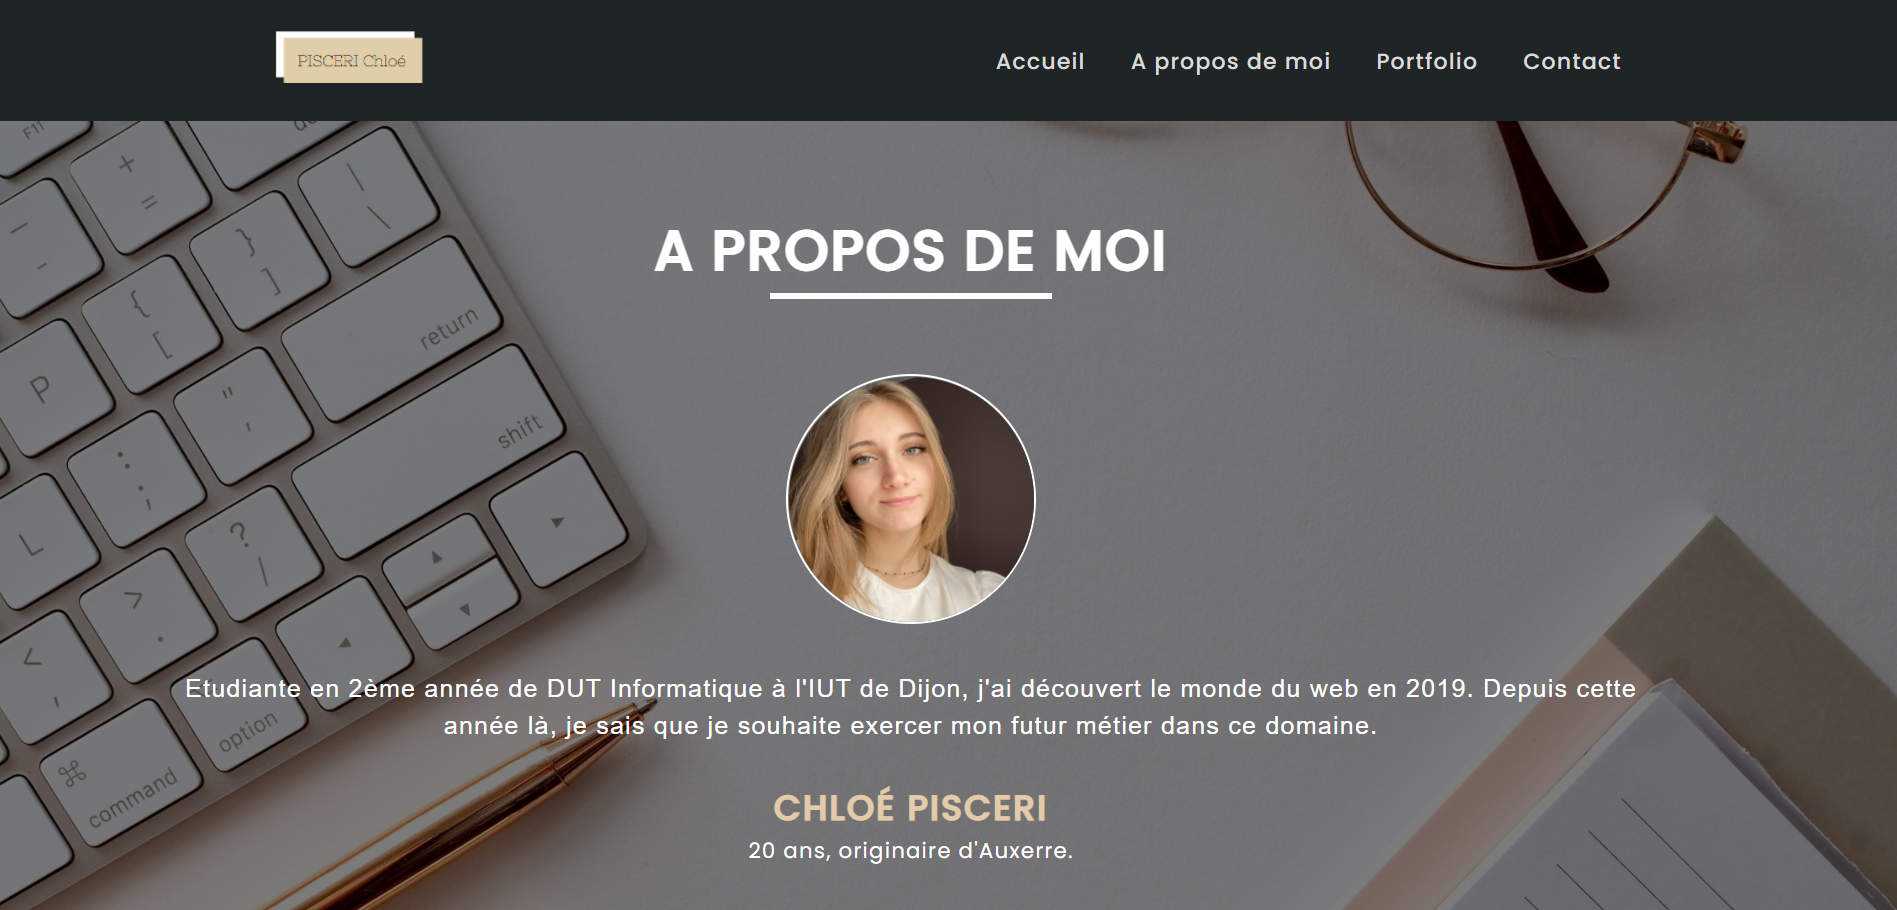
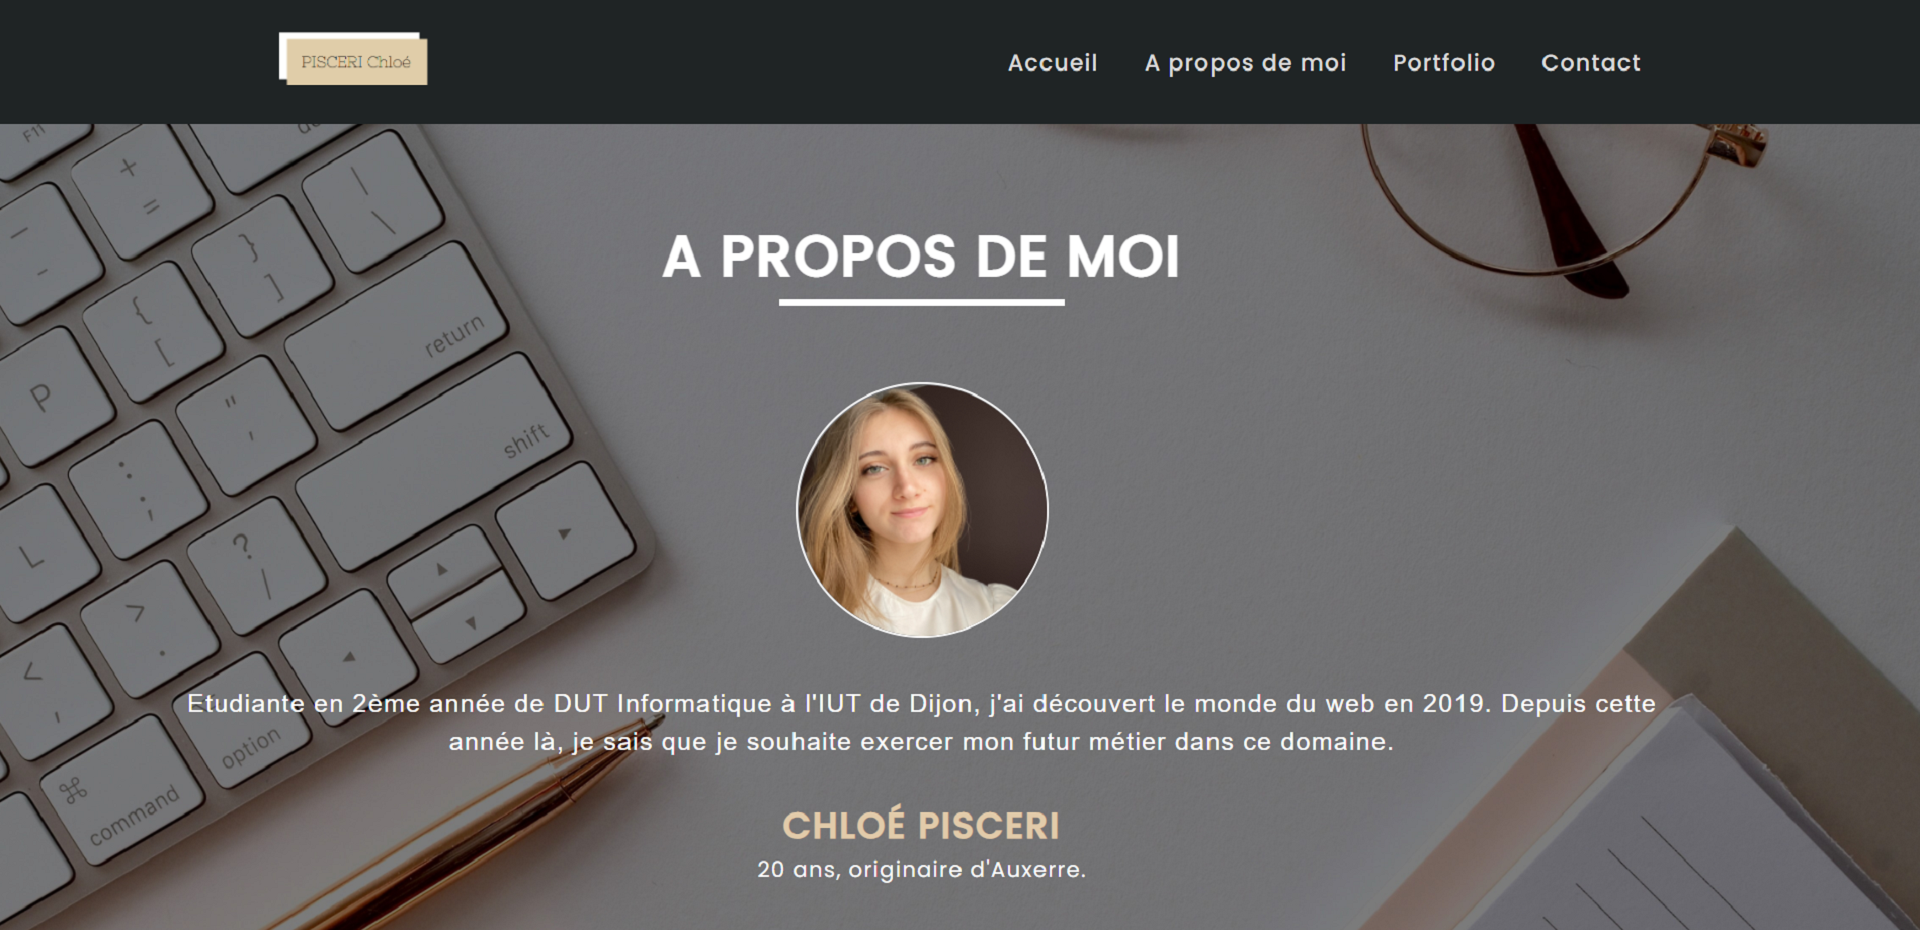
Modifications

diff --git a/css/portfolio.css b/css/portfolio.css
@@ -33,7 +33,7 @@ body{
     grid-template-columns: 1fr 1fr ;
     grid-column-gap: 50px;
     grid-row-gap: 50px;
-    padding: 10em;
+    padding: 8em;
 }
 
 .item{
@@ -73,9 +73,15 @@ h2{
 }
 
 /**LOGO**/
-
+.fa-html5, .fa-css3-alt, .fa-js-square, .fa-php{
+    margin-right: 3%;
+    background-color: rgba(243, 241, 241, 0.884);
+    border-radius: 20%;
+    padding: 2%;
+}
 .fa-html5{
     color :rgba(226,65,24,255);
+    
 }
 
 .fa-css3-alt {
@@ -128,21 +134,23 @@ img.active {
 }
 
 .btn-nav {
-    font-size: 50px;
-    margin: 0 15px;
+    font-size: 30px;
+    margin: 0 10px;
     cursor: pointer;
+    color : whitesmoke;
 }
 
 
 /**responsive**/
 @media screen and (max-width: 950px){
     .items{
-        position: relative;
+        position:relative;
         display: grid;
         grid-template-columns: 1fr ;
         grid-row-gap: 50px;
-        padding: 1em;
-        
+        /* aligner items au centre */
+        align-content: center;
+        justify-content: center;
     }
     .item{
         margin: 30px 0px;

diff --git a/css/apropos.css b/css/apropos.css
@@ -14,10 +14,9 @@
 .wrapper{
     min-height: 100vh;
     width: 95%;
-  
 }
 
-.testimonial{
+.informations{
     padding: 30px 120px;
 }
 
@@ -43,7 +42,8 @@ article img{
     width: 200px;
     border: 2px solid #fff;
     border-radius: 50%;
-    margin-top: 60px;
+    display: block;
+    margin: 60px auto;
 }
 
 blockquote{
@@ -62,4 +62,29 @@ article h5{
 
 article p{
     font-size: 17px;
+}
+
+@media screen and (max-width: 950px){
+    article h1{
+        font-size: 25px;
+        text-align: center;
+    }
+    article h1:after{
+        width: 120px;
+    }
+    article img{
+        height: 150px;
+        width: 150px;
+        display: block;
+        margin: 60px auto;
+    }
+    article p{
+        font-size: 15px;
+    }
+    blockquote{
+        font-size: 15px;
+    }
+    .informations{
+        padding: 20px 60px;
+    }
 }

diff --git a/php/portfolio.php b/php/portfolio.php
@@ -37,15 +37,15 @@
                     <br>
                     <h5>Technologies : </h5>
                     <div class="logo">
-                        <p class="icons"><i class="fa-brands fa-html5 fa-2x"></i></p>
-                        <p class="icons"><i class="fa-brands fa-css3-alt fa-2x"></i></p>
-                        <p class="icons"><i class="fa-brands fa-php fa-2x"></i></p>
+                        <i class="fa-brands fa-html5 fa-2x"></i>
+                        <i class="fa-brands fa-css3-alt fa-2x"></i>
+                        <i class="fa-brands fa-php fa-2x"></i>
                     </div>
                 </div>
             </div>
             <!--Projet 2-->
             <div class="item">
-                <h2>Domaine Philippon Frères</h2>
+                <h2>Domaine viticole</h2>
                 <div class="container">
                     <div class="slider">
                         <img src="../img/site/dpAccueil.png" class="active img-diapo2">

diff --git a/php/contact.php b/php/contact.php
@@ -24,7 +24,7 @@
             <div><i class="fa-solid fa-phone"></i> <a href="tel:0680815620">06.80.81.56.20</a></div>
             <div><i class="fa-solid fa-envelope"></i> <a href="mailto:chloepi89@gmail.com">chloepi89@gmail.com</a></div>
             <div><i class="fa-brands fa-linkedin"></i><a href="https://fr.linkedin.com/in/chlo%C3%A9-pisceri-1b1a0a206">Linkedin</a></div>
-            <div><i class="fa-solid fa-file"></i><a href="../img/CV_PISCERI_CHLOE.pdf">Curriculum vitae</a></div>
+            <div><i class="fa-solid fa-file"></i><a href="../img/CV.png">Curriculum vitae</a></div>
         </div>
         <div class="contact-form">
             <h2>Contactez moi</h2>

diff --git a/php/Apropos.php b/php/Apropos.php
@@ -13,7 +13,7 @@
 </head>
 <body>
     <div class="wrapper">
-        <div class="testimonial">
+        <div class="informations">
             <article>
                 <h1>A propos de moi</h1>
                 <img src="../img/moi.png" alt="">
